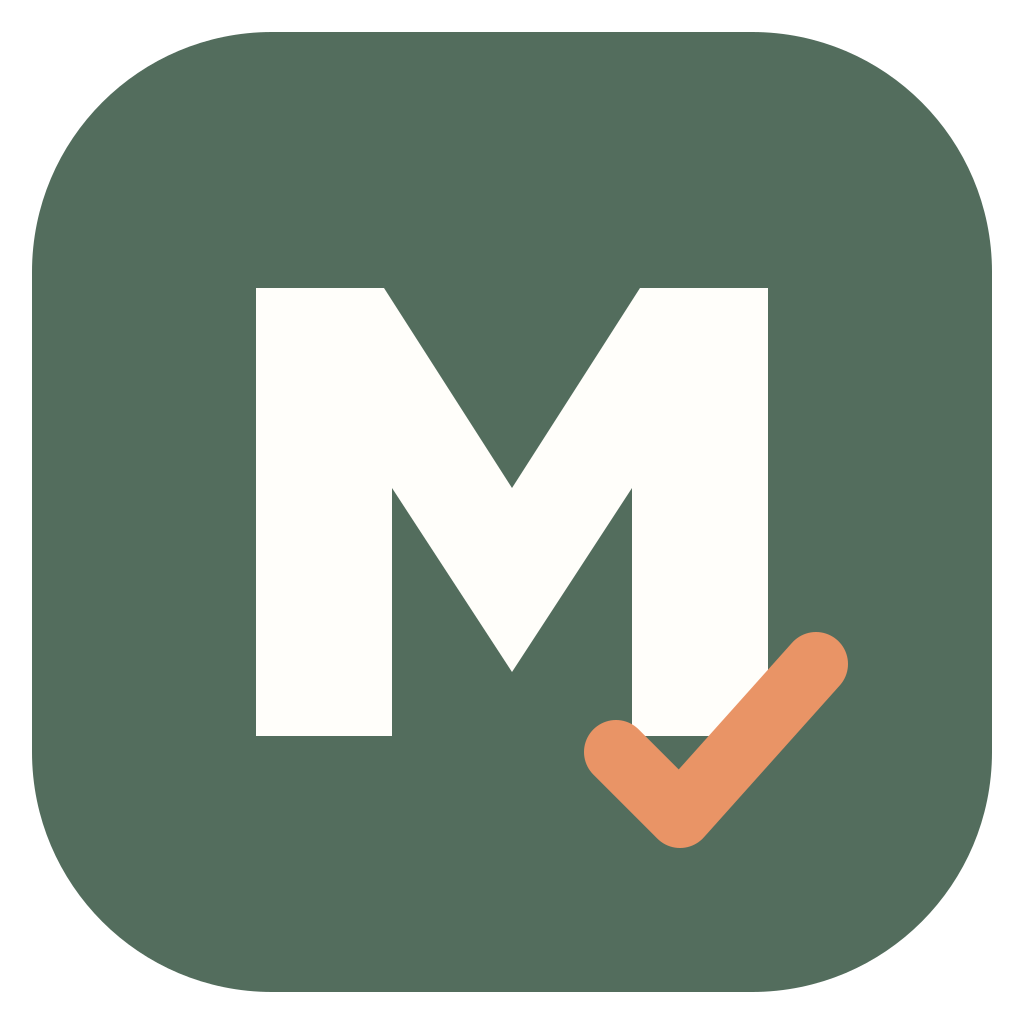
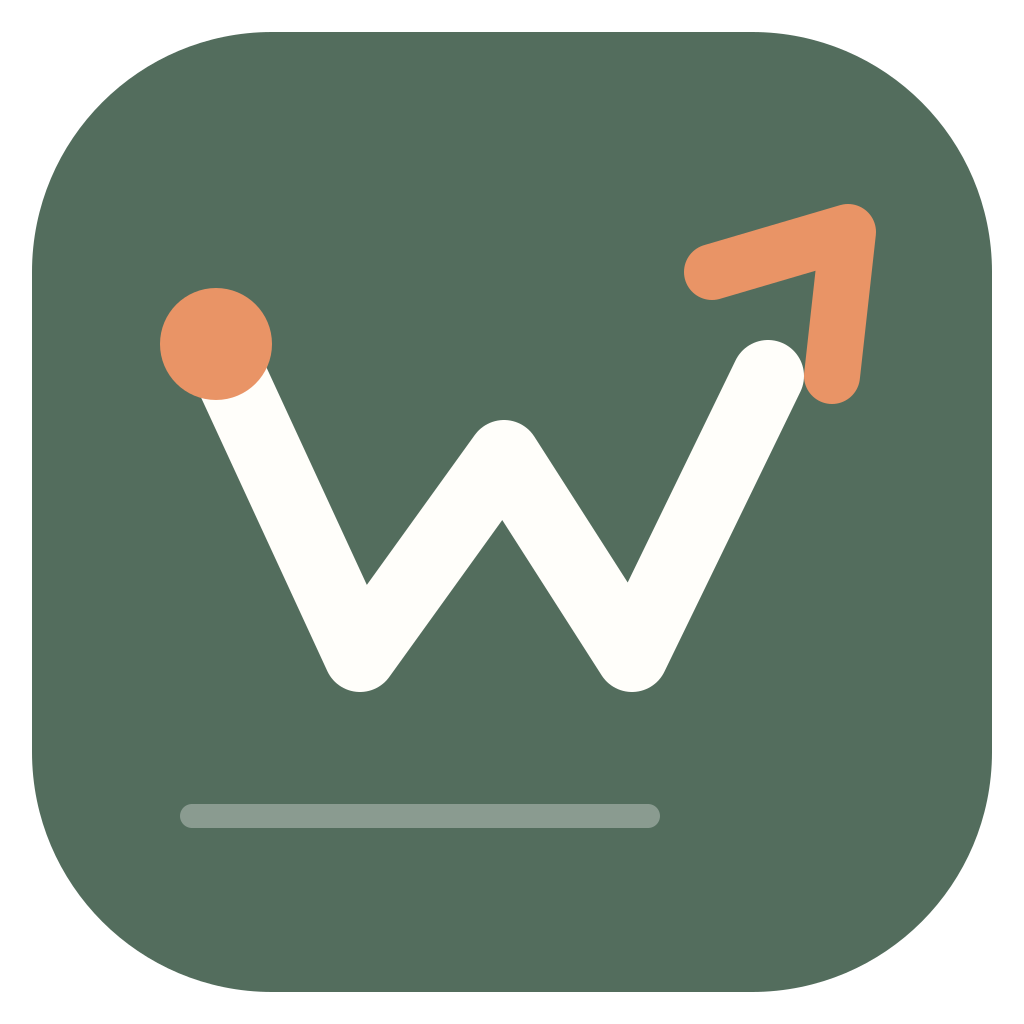
Refresh WorkCraft AI mark to show forward motion

Changed region(s): [[0.1562, 0.1875, 0.875, 0.8438]]

diff --git a/marketing-site/index.html b/marketing-site/index.html
@@ -34,7 +34,7 @@
     <a class="skip-link" href="#main">Skip to content</a>
     <header class="site-header">
       <a class="brand" href="#top" aria-label="WorkCraft AI home">
-        <img class="brand-image" src="/assets/workcraft-ai-logo.svg" alt="WorkCraft AI — For the people who get the work done. Keep good work moving." />
+        <img class="brand-image" src="/assets/workcraft-ai-logo.svg" alt="WorkCraft AI, for the people who get the work done. Keep good work moving." />
       </a>
       <nav class="main-nav" aria-label="Main navigation">
         <a href="#how-it-works">How it works</a>
@@ -110,7 +110,7 @@
     </main>
 
     <footer class="site-footer">
-      <div class="footer-main section-wrap"><a class="brand brand-footer" href="#top"><img class="brand-image" src="/assets/workcraft-ai-logo.svg" alt="WorkCraft AI — For the people who get the work done. Keep good work moving." /></a><p>For the people who get the work done.<br />Keep good work moving.</p><a class="footer-app-link" href="https://app.workcraftai.com/">Go to the app <span aria-hidden="true">↗</span></a></div>
+      <div class="footer-main section-wrap"><a class="brand brand-footer" href="#top"><img class="brand-image" src="/assets/workcraft-ai-logo.svg" alt="WorkCraft AI, for the people who get the work done. Keep good work moving." /></a><p>For the people who get the work done.<br />Keep good work moving.</p><a class="footer-app-link" href="https://app.workcraftai.com/">Go to the app <span aria-hidden="true">↗</span></a></div>
       <div class="footer-bottom section-wrap"><span>© <span id="year">2026</span> WorkCraft AI. All rights reserved.</span><span>Built for the work that keeps things moving.</span></div>
     </footer>
   </body>

diff --git a/brand-assets/README.md b/brand-assets/README.md
@@ -1,6 +1,6 @@
 # WorkCraft AI logo files
 
-The logo system uses one sage and orange mark with the WorkCraft AI wordmark. The two tagline lines are:
+The logo system uses a continuous W-shaped route that moves forward into an arrow, representing WorkCraft AI and the idea of keeping work moving. It is drawn in the same sage and orange palette with the WorkCraft AI wordmark. The two tagline lines are:
 
 - For the people who get the work done.
 - Keep good work moving.
